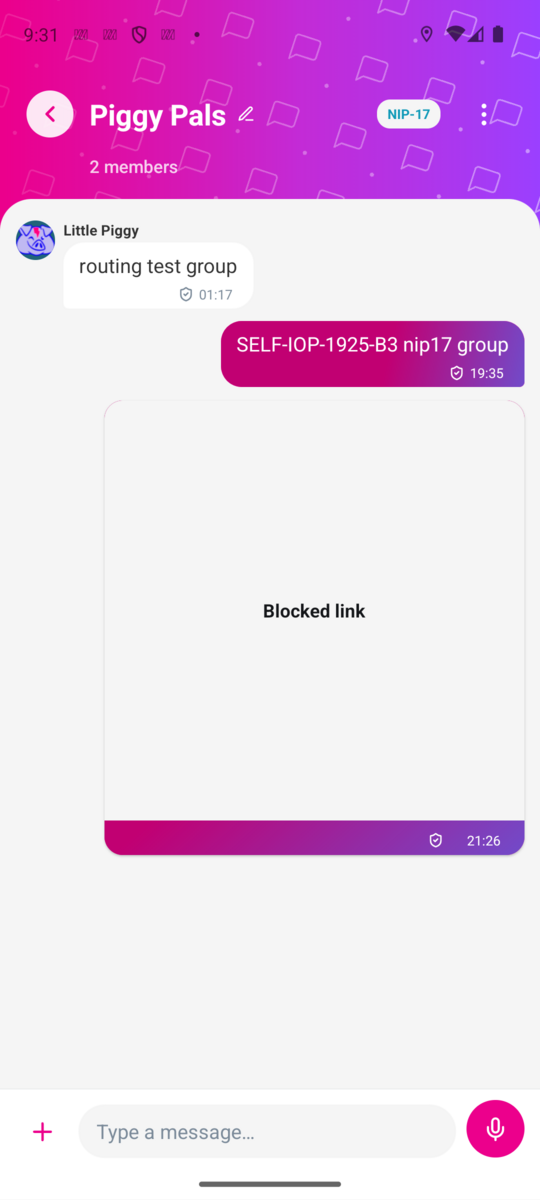
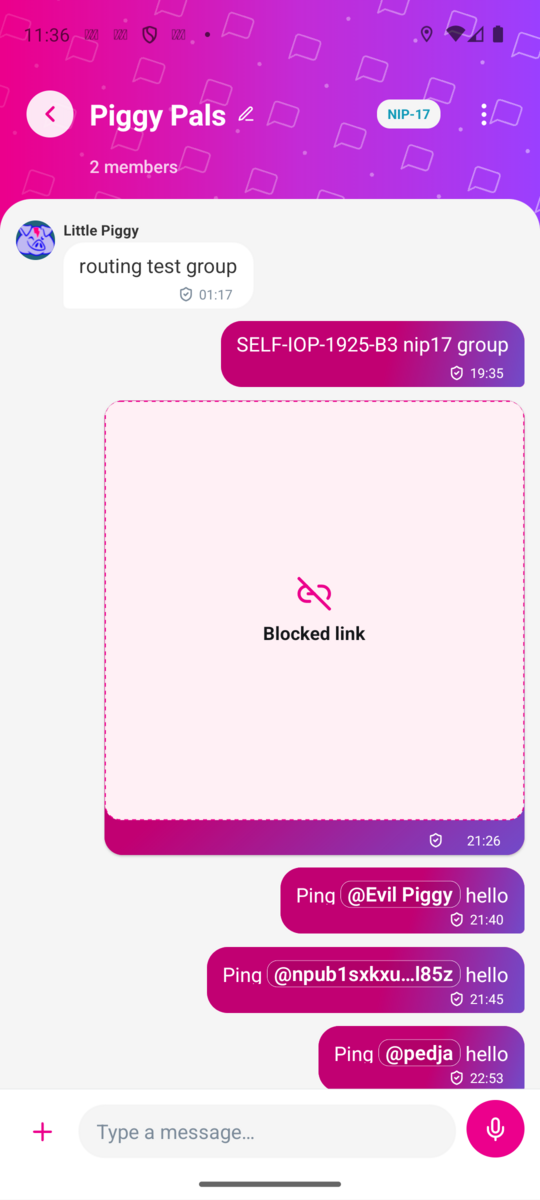
feat(chat): a touch of brand colour on the media placeholder box (#1643)
Pale brand-pink fill, dashed pink edge and a pink broken-link icon on the
blocked box. Text stays dark: pink on the tint is only ~3.9:1.

diff --git a/src/components/TapToLoadMedia.tsx b/src/components/TapToLoadMedia.tsx
@@ -1,7 +1,7 @@
 import { checkRemoteUrl } from '../utils/remoteUrlPolicy';
 import React, { useMemo } from 'react';
 import { Text, TouchableOpacity, View, type StyleProp, type ViewStyle } from 'react-native';
-import { ImageIcon, Link2 } from 'lucide-react-native';
+import { ImageIcon, Link2, Link2Off } from 'lucide-react-native';
 import { useThemeColors } from '../contexts/ThemeContext';
 import { useLocale } from '../contexts/LocaleContext';
 import { createTapToLoadMediaStyles } from '../styles/TapToLoadMedia.styles';
@@ -52,9 +52,13 @@ const TapToLoadMedia: React.FC<Props> = ({ variant, url, fromMe, testID, onPress
               ? styles.thumbBox
               : styles.textCol,
           style,
+          onLightBox && styles.boxTint,
         ]}
         testID={testID}
       >
+        {onLightBox ? (
+          <Link2Off size={variant === 'thumb' ? 20 : 28} color={colors.brandPink} />
+        ) : null}
         <Text style={onLightBox ? styles.boxLabel : styles.label}>
           {t('messageBubble.blockedLink')}
         </Text>
@@ -64,7 +68,7 @@ const TapToLoadMedia: React.FC<Props> = ({ variant, url, fromMe, testID, onPress
 
   if (variant === 'thumb') {
     return (
-      <View style={styles.thumbBox} testID={testID}>
+      <View style={[styles.thumbBox, styles.boxTint]} testID={testID}>
         <ImageIcon size={20} color={colors.brandPink} />
         <Text style={styles.thumbLabel} numberOfLines={2}>
           {t('messageBubble.tapToLoadImage')}
@@ -75,7 +79,7 @@ const TapToLoadMedia: React.FC<Props> = ({ variant, url, fromMe, testID, onPress
 
   if (variant === 'image') {
     return (
-      <View style={[styles.imageBox, style]} testID={testID}>
+      <View style={[styles.imageBox, style, styles.boxTint]} testID={testID}>
         <ImageIcon size={28} color={colors.brandPink} />
         <Text style={[styles.boxLabel, styles.labelCentered]}>
           {t('messageBubble.tapToLoadImage')}

diff --git a/src/styles/TapToLoadMedia.styles.ts b/src/styles/TapToLoadMedia.styles.ts
@@ -24,10 +24,15 @@ export const createTapToLoadMediaStyles = (colors: Palette, fromMe: boolean) =>
       gap: 10,
     },
     // Image variant: fills the bubble; the caller supplies the bounded aspect.
+    // Pale brand pink with a dashed pink edge, like the file card's "tap to
+    // load": the text stays dark (pink text on this tint is only ~3.9:1).
     imageBox: {
       width: '100%',
       aspectRatio: 1,
-      backgroundColor: colors.background,
+      borderWidth: 1,
+      borderStyle: 'dashed',
+      borderColor: colors.brandPink,
+      borderRadius: 12,
       alignItems: 'center',
       justifyContent: 'center',
       paddingHorizontal: 16,
@@ -41,6 +46,10 @@ export const createTapToLoadMediaStyles = (colors: Palette, fromMe: boolean) =>
       justifyContent: 'center',
       padding: 6,
       gap: 4,
+    },
+    // Applied after the caller's style, which sets its own background.
+    boxTint: {
+      backgroundColor: colors.brandPinkLight,
     },
     thumbLabel: {
       fontSize: 11,
@@ -66,7 +75,7 @@ export const createTapToLoadMediaStyles = (colors: Palette, fromMe: boolean) =>
     boxHost: {
       fontSize: 12,
       // textBody, not textSupplementary: small text on the light box needs
-      // ≥4.5:1 (supplementary grey on #F5F5F5 is only ~3.2:1).
+      // ≥4.5:1 on the pale pink box (supplementary grey falls short).
       color: colors.textBody,
     },
     labelCentered: {
